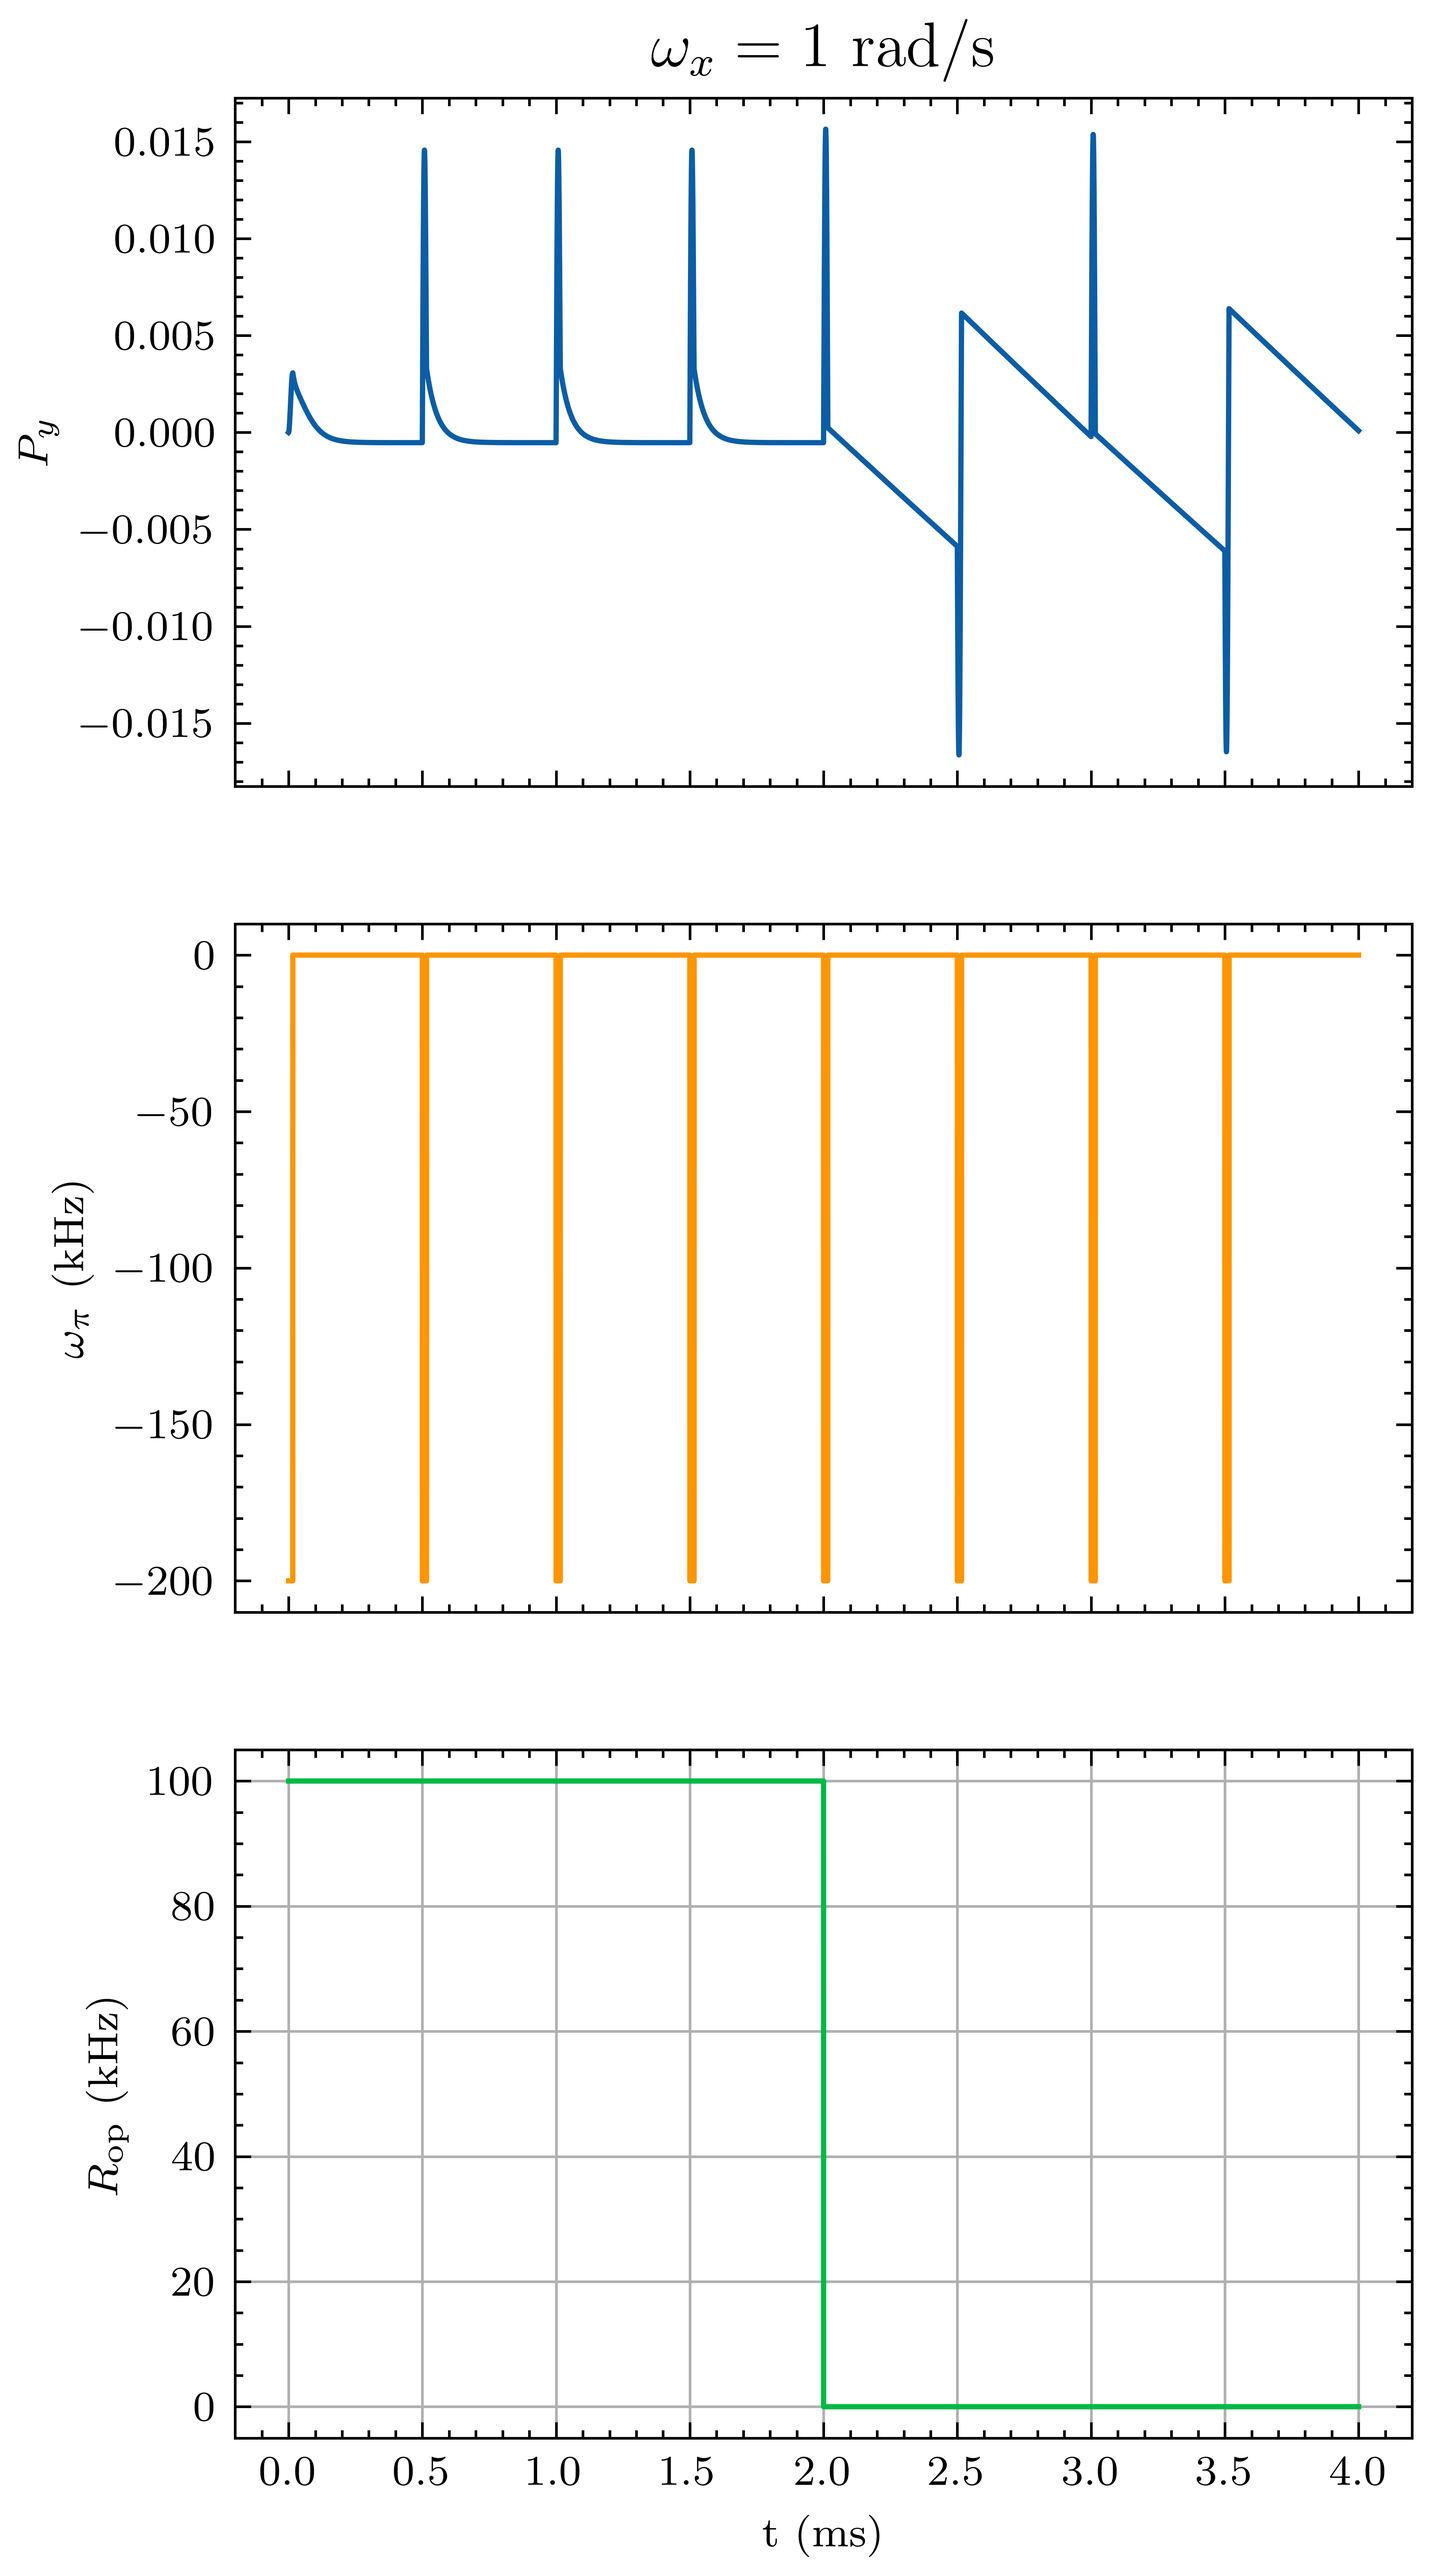
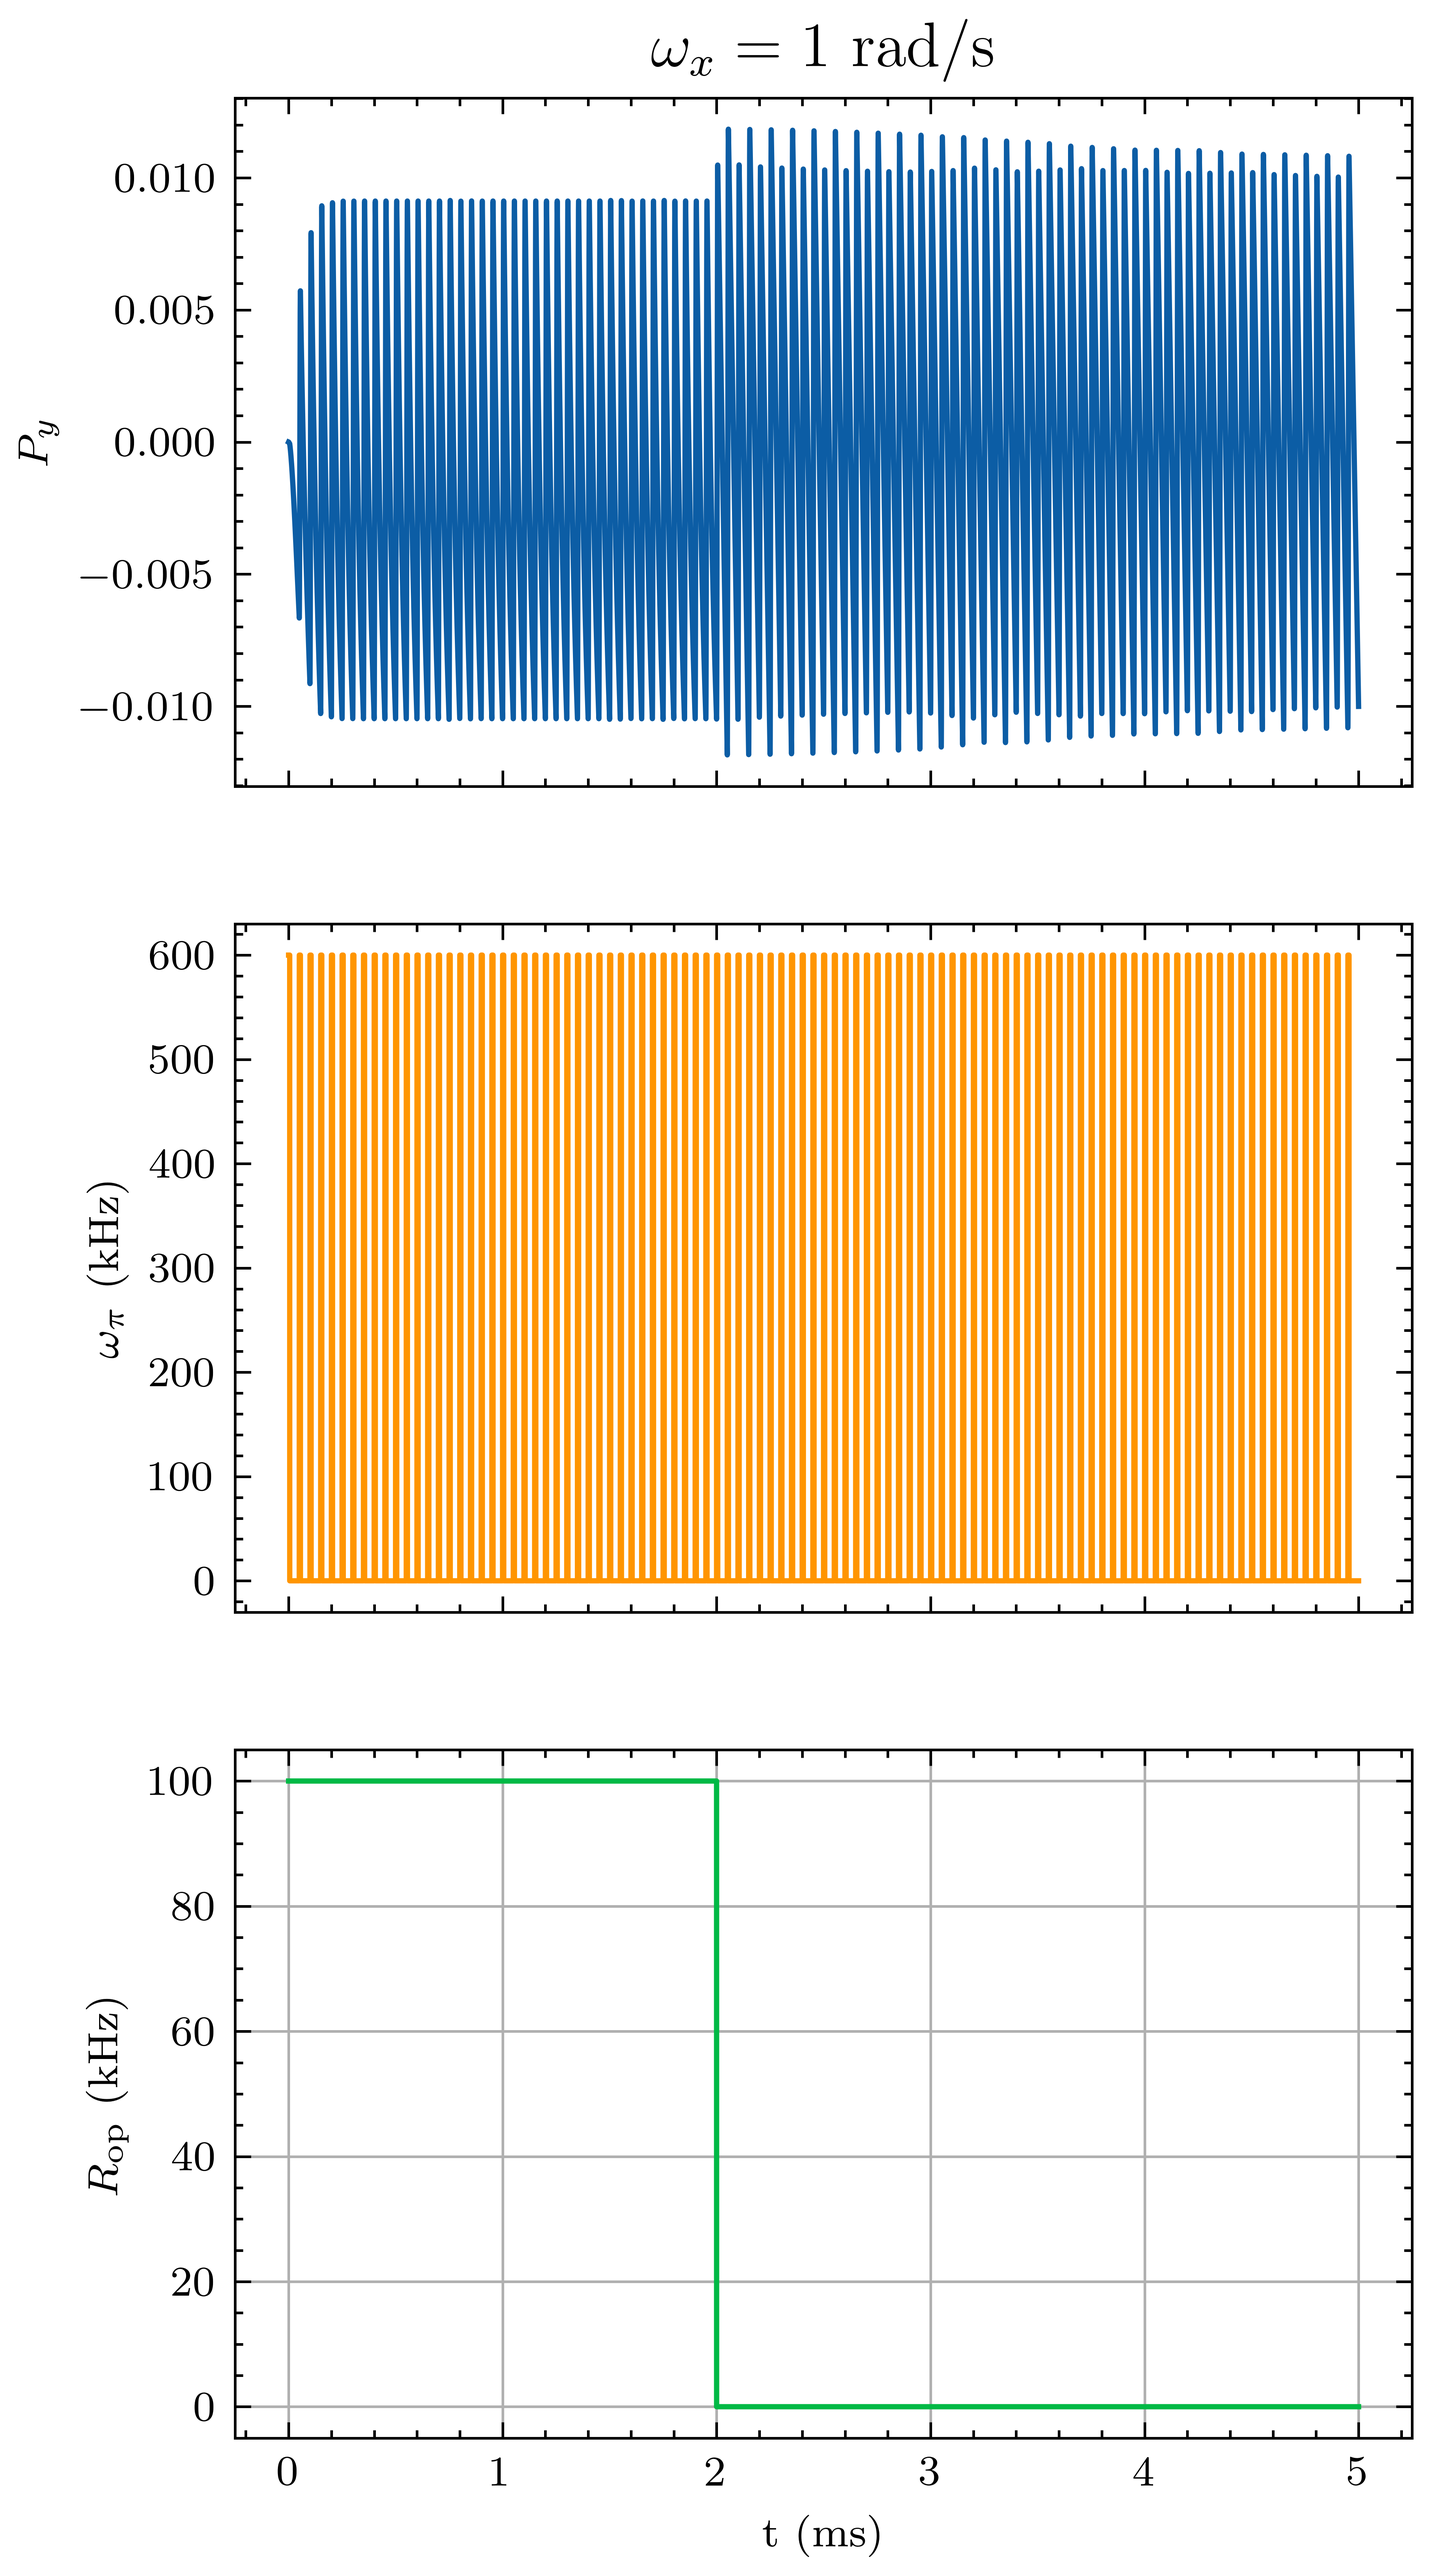
1

diff --git a/Signal_under_pi_pulse.py b/Signal_under_pi_pulse.py
@@ -1,6 +1,6 @@
 import sys
-sys.path.append(r"/Users/liyang/Documents/GitHub/Optically_polarized_atoms/my_functions")
-# sys.path.append(r"D:\Optically-pumped-atoms\my_functions")
+# sys.path.append(r"/Users/liyang/Documents/GitHub/Optically_polarized_atoms/my_functions")
+sys.path.append(r"D:\Optically-pumped-atoms\my_functions")
 import matplotlib.pyplot as plt
 from spin_operators_of_2or1_alkali_metal_atoms import spin_operators_of_2or1_alkali_metal_atoms
 from alkali_atom_uncoupled_to_coupled import alkali_atom_uncoupled_to_coupled
@@ -57,7 +57,7 @@ def master_equation(I,Rse,omega_0,theta_B,phi_B,omega_pi,theta_pi,phi_pi,Rop,Rsd
     # Rho_ini = np.outer(np.array([0, 1, 0, 0, 0, 0, 0, 0]), np.array([0, 1, 0, 0, 0, 0, 0, 0]))
 
     # --------------------------------------Evolution under hyperfine effect, etc.--------------------------------#
-    H0 = omega_0*np.cos(theta_B) * (az - bz)+omega_0*np.sin(theta_B) *np.cos(phi_B)* (ax - bx)+omega_0*np.sin(theta_B) *np.sin(phi_B)* (ay - by)  # 投影定理
+    H0 =omega_0z* (az - bz)+omega_0x* (ax - bx)+omega_0y* (ay - by)  # 投影定理
     Rhot = Rho_ini
     hyperfine = block_diag(np.ones((2 * a + 1, 2 * a + 1)), np.ones((2 * b + 1, 2 * b + 1)))  # 一个原子
     Py = np.zeros(round(T / dt))
@@ -112,25 +112,25 @@ duration_pi=np.pi/(2*amplitude_pi)  #ms#
 
 duty_pi=duration_pi*frequency_pi
 omega_pi = amplitude_pi * signal.square(2 * np.pi * frequency_pi * (t), duty=duty_pi)+amplitude_pi
-theta_pi=np.pi/200000
-phi_pi=0
+theta_pi=np.pi/180*0.
+phi_pi=np.pi/2
 
 
-# for k in np.arange(0, round(T / dt), 1): 
-#     if Rop[k]==2*amplitude_op:
-#         omega_pi[k]=0
+for k in np.arange(0, round(T / dt), 1): 
+    if Rop[k]==2*amplitude_op:
+        omega_pi[k]=0
 
-Rsd = 5   #20Hz#
+Rsd = 100e-3   #20Hz#
 Rse = 0.001    #5 Hz@50度#
-omega_0=5e-1
-theta_B=np.pi/4
-phi_B=0
+omega_0x=0.1e-1
+omega_0y=0.0e-1
+omega_0z=0.1e-1
 
 
 
 
 
-Px,Py,may=master_equation(3/2,Rse,omega_0,theta_B,phi_B,omega_pi,theta_pi,phi_pi,Rop,Rsd,T)
+Px,Py,may=master_equation(3/2,Rse,omega_0x,omega_0y,omega_0z,omega_pi,theta_pi,phi_pi,Rop,Rsd,T)
 
 t=np.arange(0,T,dt)
 plt.style.use(['science'])

diff --git a/FID_magnetometer/theory_sensitivity.py b/FID_magnetometer/theory_sensitivity.py
@@ -42,7 +42,7 @@ def photon_number(power):
     c=3e8
     lam_K=770.108e-9
     lam_Rb=795e-9
-    nu=c/lam_K
+    nu=c/lam_Rb
     return power/(h*nu)
 
 def Gamma_pr(delta_nv,power,pHe,pN2,T,T0):
@@ -64,7 +64,7 @@ def fun(X):
     Power=X[0]
     Detuning=X[1]
     tau=X[2]
-    species='K'
+    species='Rb'
 #-----------------------缓冲气体和淬灭气体的气压(室温时）-------------------------#
     pN2=60
     pHe=760*3
@@ -145,11 +145,12 @@ def fun(X):
     Gamma2=Gamma_SD+Gamma_se+Gamma_D+Gamma_pr(Detuning,Power,pHe,pN2,T,T0)
     sigmaF_tau=0.86/np.sqrt(N_at)
     Sx0=1/2
-    delta_sp=np.sqrt(2/tau*F_error(tau)/N_at)/4/(gamma_e*Sx0*np.sqrt(tau)*np.exp(-Gamma2*tau))
-    delta_ph=1/(gamma_e*chi*n*l*np.sqrt(2*Phi)*tau*Sx0*tau*np.exp(-Gamma2*tau)*4)
+    delta_sp=np.sqrt(1/tau*F_error(tau)/N_at)/(gamma_e*Sx0*np.sqrt(tau)*np.exp(-Gamma2*tau))
+    delta_ph=1/(gamma_e*chi*n*l*np.sqrt(2*Phi)*tau*Sx0*np.exp(-Gamma2*tau)*4)
+
     sigma=np.sqrt(delta_sp**2+delta_ph**2)
     return sigma
 
-sigma=dual_annealing(fun,bounds=[[0.,5],[5e9,100e9],[0,0.1]], maxiter=10000)
+sigma=dual_annealing(fun,bounds=[[0.,5],[5e9,100e9],[0,0.001]], maxiter=10000)
 print(sigma)
 
